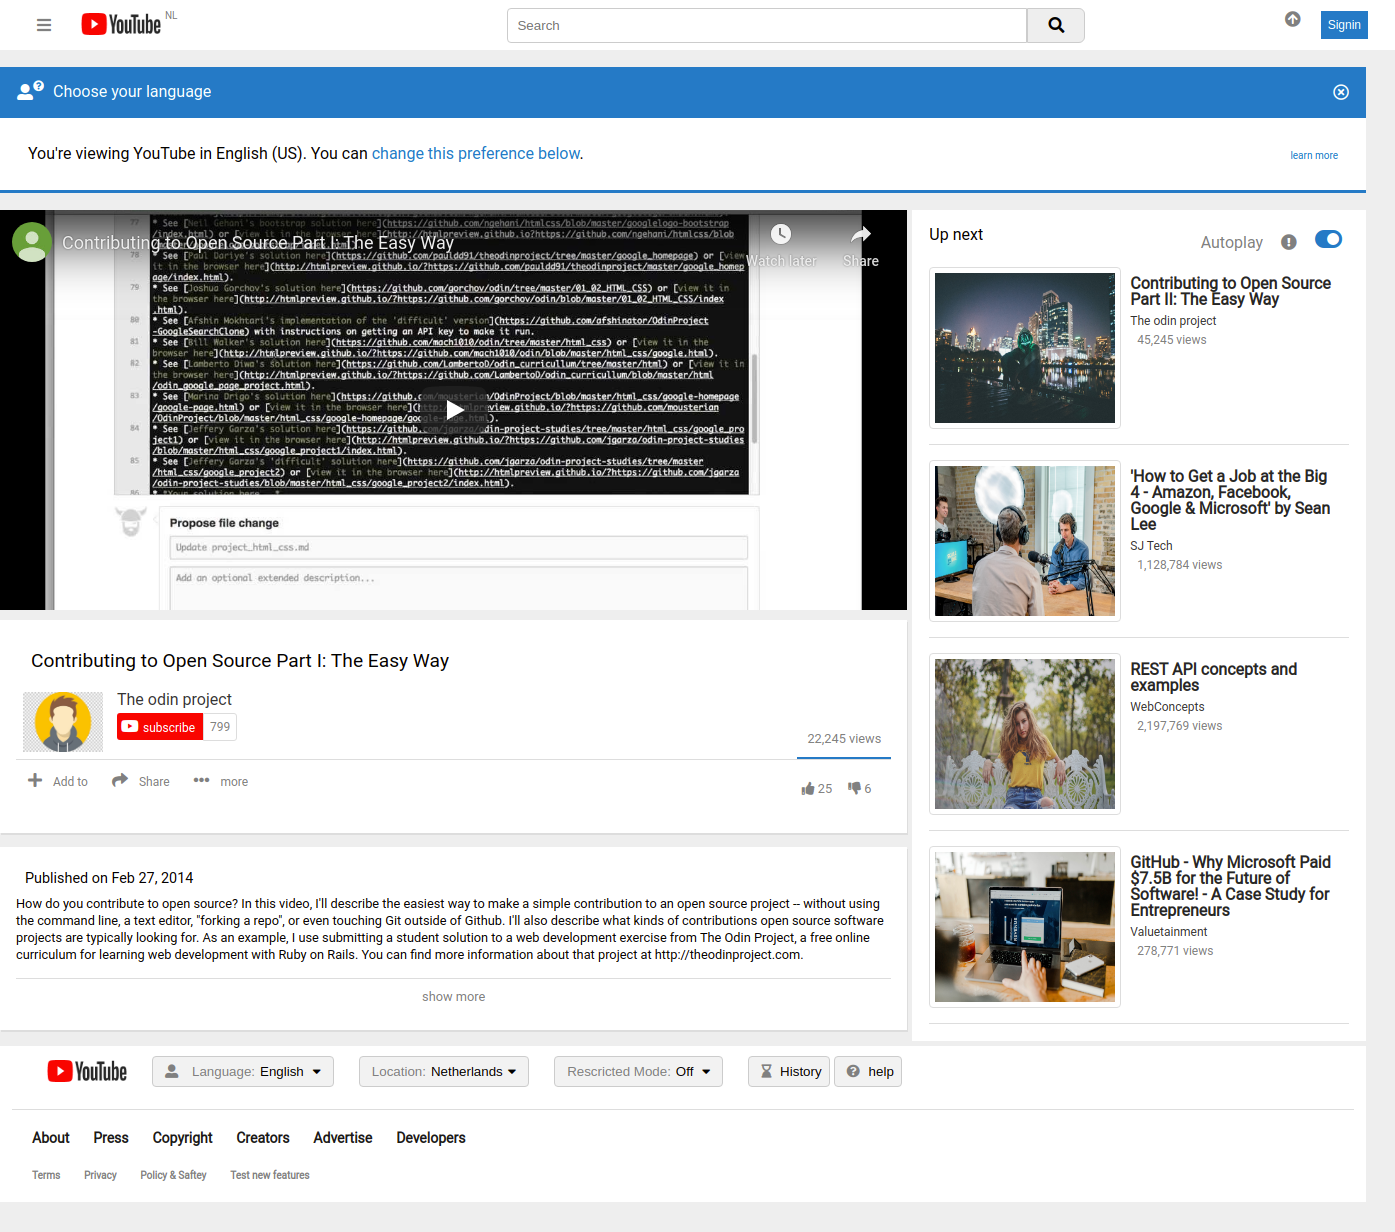
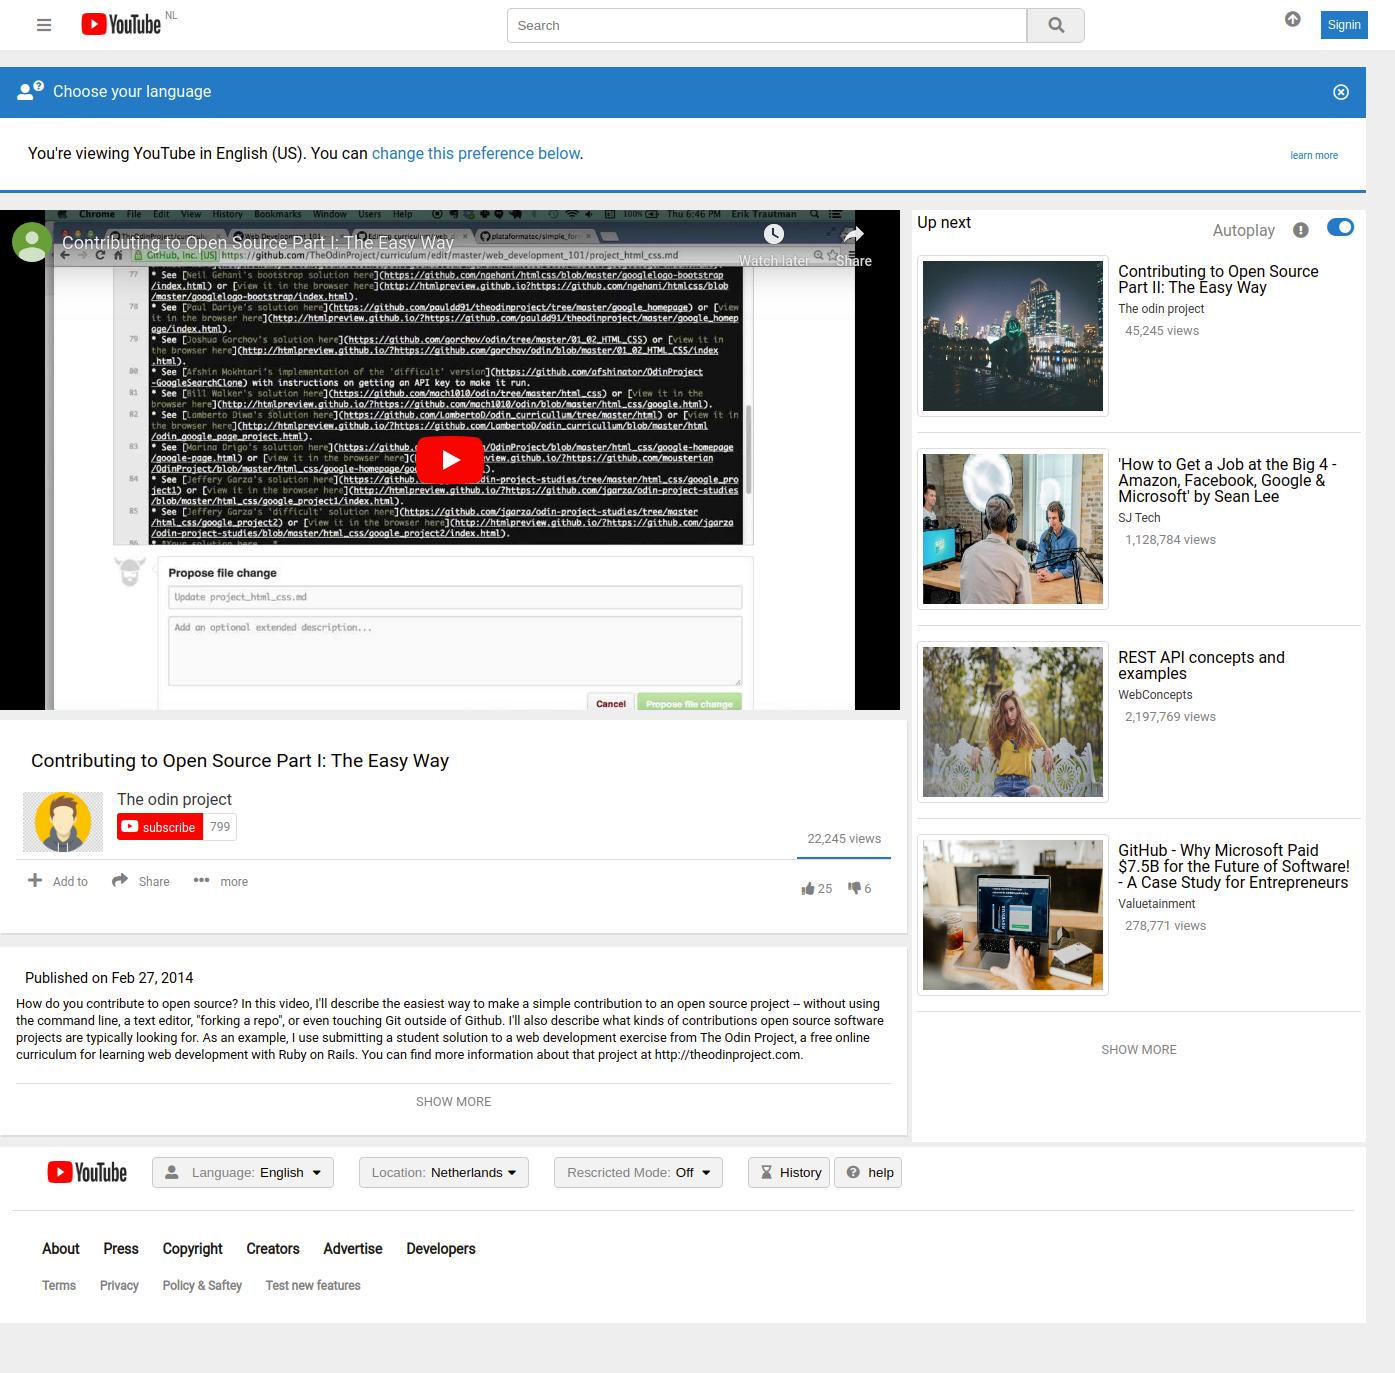
This is the final branch for review by TSE

diff --git a/index.html b/index.html
@@ -28,7 +28,7 @@
                 <div class="form-group">
                     <form>
                         <input type="text" class="input-form" placeholder="Search">
-                        <a href="#" class="btn-search"><i class="fas fa-search  "></i></a>
+                        <a href="#" class="btn-search"><i class="fas fa-search gray"></i></a>
                     </form>
                 </div>
 
@@ -74,7 +74,7 @@
         <main class="main-body">
             <div class="video-embed">
                <div class="video-player">
-                <iframe width="100%" height="400" src="https://www.youtube.com/embed/V74l_zS1x8E" frameborder="0" allow="accelerometer; autoplay; encrypted-media; gyroscope; picture-in-picture" allowfullscreen></iframe>
+                <iframe width="900" height="500" src="https://www.youtube.com/embed/V74l_zS1x8E" allow="accelerometer; autoplay; encrypted-media; gyroscope; picture-in-picture" allowfullscreen></iframe>
                </div>
             </div>
             <div class="video-description">
@@ -125,7 +125,7 @@
             <div class="video-description">
                <h3 class="video-publish-date">Published on Feb 27, 2014</h3>
                <p>How do you contribute to open source? In this video, I'll describe the easiest way to make a simple contribution to an open source project -- without using the command line, a text editor, "forking a repo", or even touching Git outside of Github. I'll also describe what kinds of contributions open source software projects are typically looking for. As an example, I use submitting a student solution to a web development exercise from The Odin Project, a free online curriculum for learning web development with Ruby on Rails. You can find more information about that project at http://theodinproject.com.</p>
-                <p class="show-more"><a href="#">show more</a></p>
+               <p class="show-more"><a href="#">show more</a></p>
             </div>
         </main>
         <!-- end of main body -->
@@ -144,35 +144,36 @@
            <div class="thumbnail-block">
                <img src="img/thumbnail-1.jpg" alt="thumbnail image 1" width="180" height="150">
                <div>
-                 <h1 class="thumbnail-title">Contributing to Open Source Part II: The Easy Way</h1>
+                 <h2 class="thumbnail-title">Contributing to Open Source Part II: The Easy Way</h2>
                  <h4 class="channel-name">The odin project</h4>
                  <p>45,245 <span class="text-view">views</span></p>
                </div>
            </div>
            <div class="thumbnail-block">
-            <img src="img/thumbnail-2.jpg" alt="thumbnail image 1" width="180" height="150">
+            <img src="img/thumbnail-2.jpg" alt="thumbnail image 2" width="180" height="150">
             <div>
-              <h1 class="thumbnail-title">'How to Get a Job at the Big 4 - Amazon, Facebook, Google & Microsoft' by Sean Lee</h1>
+              <h2 class="thumbnail-title">'How to Get a Job at the Big 4 - Amazon, Facebook, Google & Microsoft' by Sean Lee</h2>
               <h4 class="channel-name">SJ Tech</h4>
               <p>1,128,784 <span class="text-view">views</span></p>
             </div>
         </div>
         <div class="thumbnail-block">
-            <img src="img/thumbnail-3.jpg" alt="thumbnail image 1" width="180" height="150">
+            <img src="img/thumbnail-3.jpg" alt="thumbnail image 3" width="180" height="150">
             <div>
-              <h1 class="thumbnail-title">REST API concepts and examples</h1>
+              <h2 class="thumbnail-title">REST API concepts and examples</h2>
               <h4 class="channel-name">WebConcepts</h4>
               <p>2,197,769 <span class="text-view">views</span></p>
             </div>
         </div>
         <div class="thumbnail-block">
-            <img src="img/thumbnail-4.jpg" alt="thumbnail image 1" width="180" height="150">
+            <img src="img/thumbnail-4.jpg" alt="thumbnail image 4" width="180" height="150">
             <div>
-              <h1 class="thumbnail-title">GitHub - Why Microsoft Paid $7.5B for the Future of Software! - A Case Study for Entrepreneurs</h1>
+              <h2 class="thumbnail-title">GitHub - Why Microsoft Paid $7.5B for the Future of Software! - A Case Study for Entrepreneurs</h2>
               <h4 class="channel-name">Valuetainment</h4>
               <p>278,771 <span class="text-view">views</span></p>
             </div>
         </div>
+         <p class="show-more"><a href="#">show more</a></p>
         </aside>
         <!-- end of aside -->
 
@@ -222,8 +223,6 @@
            </div>
         </footer>
         <!-- end of footer  -->
-    </div>
-
     </div>
     <!-- end of container -->
 </body>

diff --git a/css/styles.css b/css/styles.css
@@ -154,6 +154,7 @@ sup {
       flex-direction: column;
       grid-column: 1/2;
   }
+
 #country-abbr {
     position: relative;
     top: -20px;
@@ -258,19 +259,22 @@ sup {
      font-size: 0.9rem;
      font-weight: 400;
  }
+ .video-description p.show-more {
+    border-top: 1px solid #ddd;
+ }
  .video-description p {
      line-height: 17px;
      font-size: 0.8rem;
  }
  .show-more {
-     margin-top: 15px;
+     margin-top: 20px;
      padding: 9px;
      text-align: center;
-     border-top: 1px solid #ddd;
  }
 .show-more a {
     color: gray;
     text-decoration: none;
+    text-transform: uppercase;
 }
 /* end of video discription */
 
@@ -284,8 +288,9 @@ sup {
 /* aside */
 .side-bar {
     grid-column: 2/3;
+    flex-wrap: wrap;
     background-color: white;
-    padding: 17px;
+    padding: 5px;
 }
 .sidebar-actions {
     display: flex;
@@ -327,7 +332,10 @@ h1.thumbnail-title {
     border-radius: 4px;  /* Rounded border */
     padding: 5px;
 }
-
+.side-bar p {
+    line-height: 17px;
+    font-size: 0.8rem;
+}
 /* end of aside */
 
 
@@ -336,7 +344,7 @@ h1.thumbnail-title {
 .footer {
     grid-column: 1/3;
     background-color: white;
-    margin-bottom: 30px;
+    margin-bottom: 50px;
 }
 footer #top{
     display: flex;
@@ -360,7 +368,7 @@ footer #top{
   padding: 0 5px;
 }
 footer #bottom {
-    padding: 10px;
+    padding: 20px;
     margin: 0 12px;
 
 }
@@ -376,7 +384,7 @@ ul li a {
 }
 #setting li a {
     color: gray;
-    font-size: 10px;
+    font-size: 12px;
 }
 /* end of footer */
 
